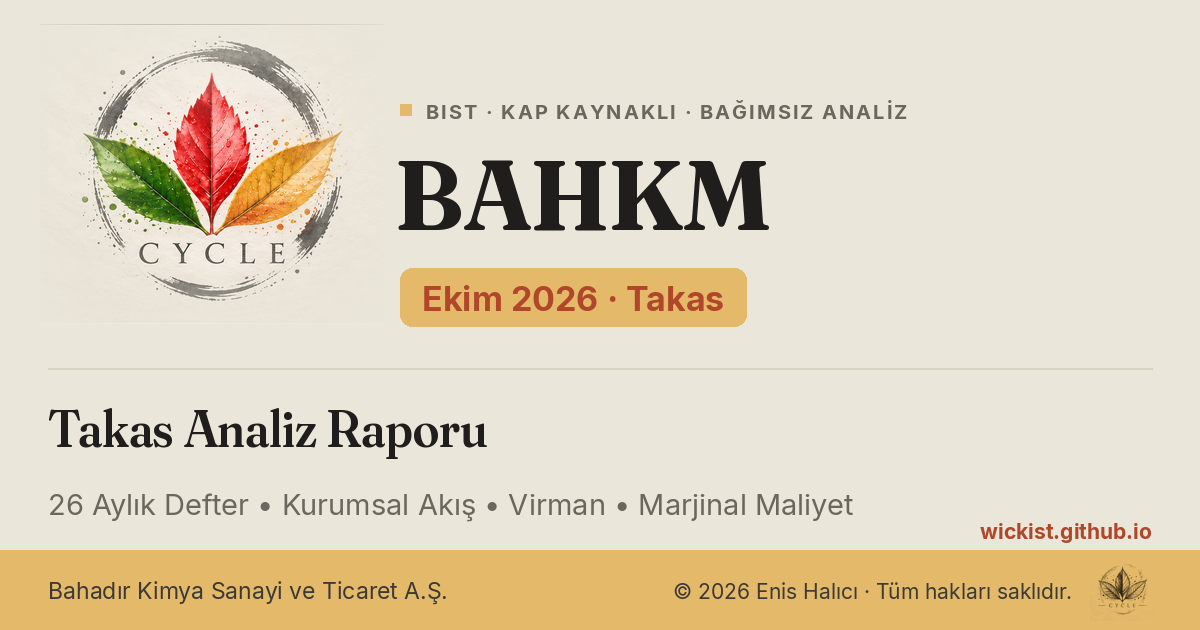
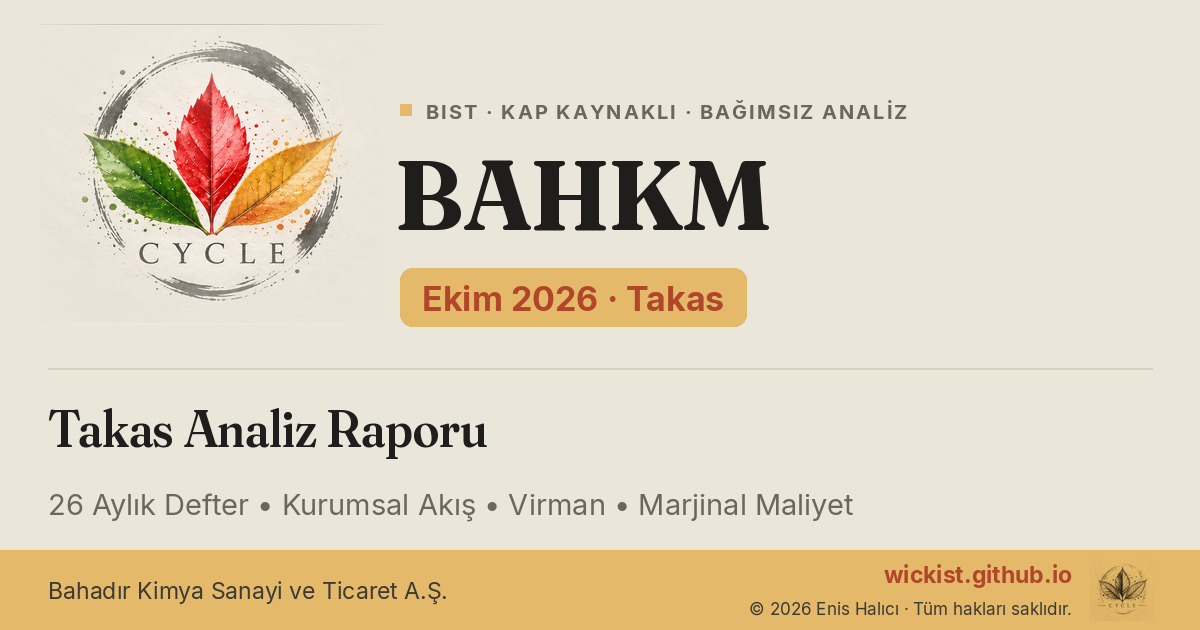
feat(portal): URL bant ici sag ust satir, telif 17px alt satir; muhur kagit normalize + ImageStat (getdata birakildi)

Changed region(s): [[0.555, 0.9048, 0.8942, 0.9952], [0.8017, 0.8143, 0.9558, 0.8746]]

diff --git a/tools/make_og.py b/tools/make_og.py
@@ -16,7 +16,7 @@ import argparse
 import json
 from pathlib import Path
 
-from PIL import Image, ImageChops, ImageDraw, ImageFilter, ImageFont
+from PIL import Image, ImageChops, ImageDraw, ImageFilter, ImageFont, ImageStat
 
 ROOT = Path(__file__).resolve().parent.parent
 W, H = 1200, 630
@@ -78,9 +78,10 @@ def paste_seal(img: Image.Image, x: int, y: int, h: int = 62) -> None:
     w = int(round(h * iw / ih))
     seal = Image.open(SEAL).convert("RGB").resize((w, h), Image.LANCZOS)
     # kenar şeridinin medyanı = kâğıt tonu; kanal bazında 255'e ölçekle
-    strip = list(seal.crop((0, 0, w, max(2, h // 25))).getdata()) + \
-        list(seal.crop((0, h - max(2, h // 25), w, h)).getdata())
-    p = [sorted(px[c] for px in strip)[len(strip) // 2] for c in range(3)]
+    bh = max(2, h // 25)
+    st1 = ImageStat.Stat(seal.crop((0, 0, w, bh)))
+    st2 = ImageStat.Stat(seal.crop((0, h - bh, w, h)))
+    p = [max(int(a), int(b)) for a, b in zip(st1.median, st2.median)]
     norm = Image.merge("RGB", [ch.point(lambda v, pc=pc: min(255, v * 255 // pc))
                                for ch, pc in zip(seal.split(), p)])
     mask = Image.new("L", (w, h), 0)
@@ -114,15 +115,15 @@ def draw_cover(path: Path, ticker: str, period_label: str, subtitle: str,
     # başlık + satır
     d.text((48, 396), subtitle, font=frac(52, 600, 96), fill=INK)
     d.text((48, 486), sections, font=inter(29), fill=MUTED)
-    # üst bant çizgisi üstü: site URL'i sağa yaslı
-    url = "wickist.github.io"
-    d.text((W - 48 - d.textlength(url, font=inter(21, True)), H - 112),
-           url, font=inter(21, True), fill=CLAY)
-    # alt bant: solda şirket, sağda telif + mühür (mühür bandın amberine multiply ile biner)
+    # alt bant: solda şirket; sağda URL eski yerinde, altında küçük telif; en sağda mühür
     d.text((48, H - 54), company, font=inter(23), fill=SOFT)
-    f_cr = inter(21)
+    url = "wickist.github.io"
+    f_url = inter(23, True)
     sx = W - 48 - 62
-    d.text((sx - 18 - d.textlength(COPYRIGHT, font=f_cr), H - 52), COPYRIGHT,
+    re = sx - 18
+    d.text((re - d.textlength(url, font=f_url), H - 70), url, font=f_url, fill=CLAY)
+    f_cr = inter(17)
+    d.text((re - d.textlength(COPYRIGHT, font=f_cr), H - 32), COPYRIGHT,
            font=f_cr, fill=SOFT)
     paste_seal(img, sx, H - 71)
     img.save(path, "PNG", optimize=True)
